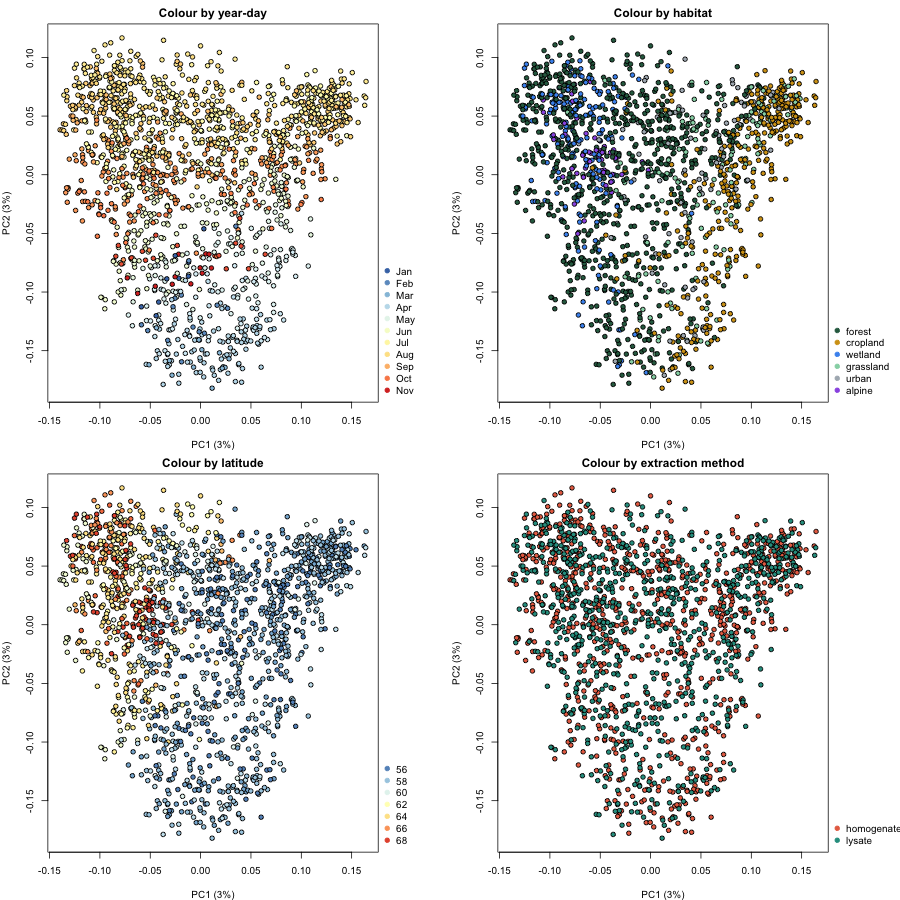
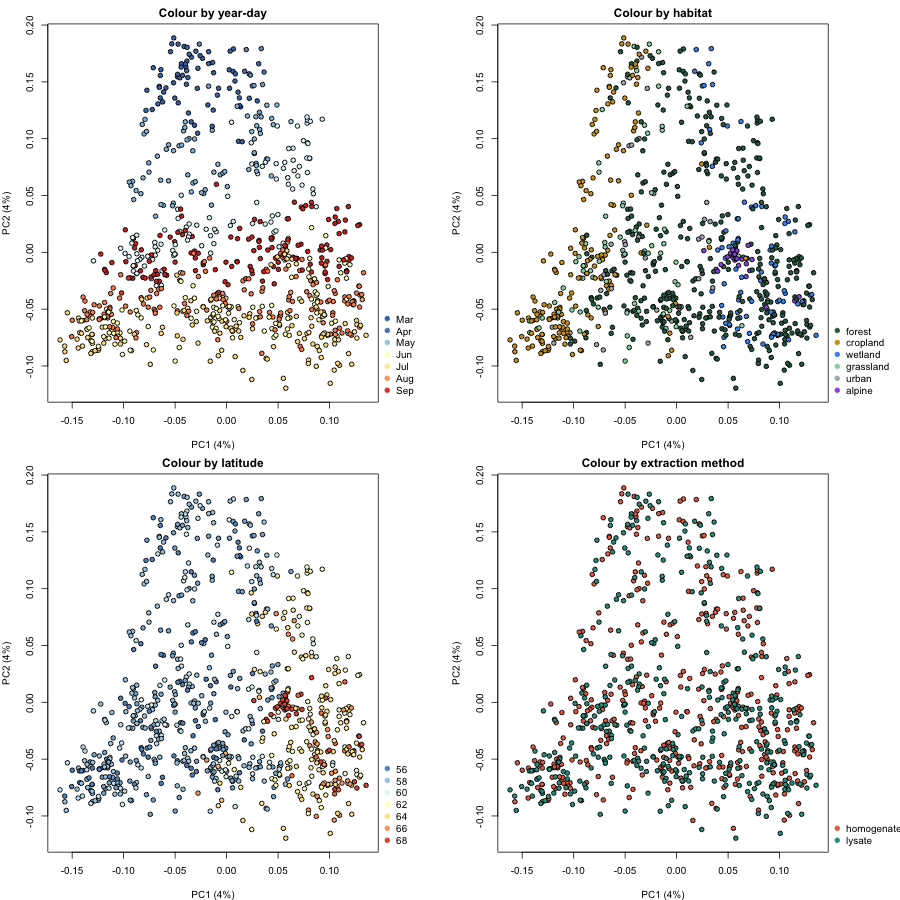
Render site to docs/

diff --git a/docs/tutorial-03-map.html b/docs/tutorial-03-map.html
@@ -174,92 +174,108 @@ pre > code.sourceCode > span > a:first-child::before { text-decoration: underlin
 <h3 class="anchored" data-anchor-id="inspect-contextual-data">Inspect contextual data</h3>
 <p>Core sample-level metadata is available in <code>merged_df$events</code>:</p>
 <div class="code-copy-outer-scaffold"><div class="sourceCode" id="cb1"><pre class="sourceCode r code-with-copy"><code class="sourceCode r"><span id="cb1-1"><a href="#cb1-1" aria-hidden="true" tabindex="-1"></a><span class="fu">colnames</span>(merged_df<span class="sc">$</span>events)</span></code></pre></div><button title="Copy to Clipboard" class="code-copy-button"><i class="bi"></i></button></div>
-<p>Samples are ordered consistently across tables — <code>rownames(merged_df$events)</code>, <code>rownames(merged_df$emof)</code> and <code>colnames(merged$counts)</code> all refer to the same samples.</p>
+<p>Samples are ordered consistently across tables — <code>rownames(merged_df$events)</code>, <code>rownames(merged_df$emof)</code> and <code>colnames(merged$counts)</code> all refer to the same samples:</p>
+<div class="code-copy-outer-scaffold"><div class="sourceCode" id="cb2"><pre class="sourceCode r code-with-copy"><code class="sourceCode r"><span id="cb2-1"><a href="#cb2-1" aria-hidden="true" tabindex="-1"></a><span class="fu">identical</span>(<span class="fu">rownames</span>(merged_df<span class="sc">$</span>events), <span class="fu">rownames</span>(merged_df<span class="sc">$</span>emof))</span></code></pre></div><button title="Copy to Clipboard" class="code-copy-button"><i class="bi"></i></button></div>
 <hr>
 </section>
 <section id="extract-spatial-and-temporal-variables" class="level3">
 <h3 class="anchored" data-anchor-id="extract-spatial-and-temporal-variables">Extract spatial and temporal variables</h3>
 <p>Latitude and longitude can be used directly, whereas <code>eventDate</code> requires some preparation because dates in these two datasets are stored as <code>start/end</code> intervals. We therefore first extract the start of each interval before calculating month and day of year.</p>
 <p>A few records only contain a year and no exact date. These cannot be assigned a month or day of year, so they are left as <code>NA</code>. We will exclude these records later when filtering the samples used in the analyses.</p>
-<div class="code-copy-outer-scaffold"><div class="sourceCode" id="cb2"><pre class="sourceCode r code-with-copy"><code class="sourceCode r"><span id="cb2-1"><a href="#cb2-1" aria-hidden="true" tabindex="-1"></a>lat   <span class="ot">&lt;-</span> <span class="fu">as.numeric</span>(merged_df<span class="sc">$</span>events<span class="sc">$</span>decimalLatitude)</span>
-<span id="cb2-2"><a href="#cb2-2" aria-hidden="true" tabindex="-1"></a>lon   <span class="ot">&lt;-</span> <span class="fu">as.numeric</span>(merged_df<span class="sc">$</span>events<span class="sc">$</span>decimalLongitude)</span>
-<span id="cb2-3"><a href="#cb2-3" aria-hidden="true" tabindex="-1"></a></span>
-<span id="cb2-4"><a href="#cb2-4" aria-hidden="true" tabindex="-1"></a>event_start <span class="ot">&lt;-</span> lubridate<span class="sc">::</span><span class="fu">parse_date_time</span>(</span>
-<span id="cb2-5"><a href="#cb2-5" aria-hidden="true" tabindex="-1"></a>  <span class="fu">sub</span>(<span class="st">"/.*"</span>, <span class="st">""</span>, merged_df<span class="sc">$</span>events<span class="sc">$</span>eventDate),</span>
-<span id="cb2-6"><a href="#cb2-6" aria-hidden="true" tabindex="-1"></a>  <span class="at">orders =</span> <span class="fu">c</span>(<span class="st">"ymd_HMSz"</span>, <span class="st">"ymd_HMS"</span>, <span class="st">"ymd"</span>)</span>
-<span id="cb2-7"><a href="#cb2-7" aria-hidden="true" tabindex="-1"></a>)</span>
-<span id="cb2-8"><a href="#cb2-8" aria-hidden="true" tabindex="-1"></a>month <span class="ot">&lt;-</span> lubridate<span class="sc">::</span><span class="fu">month</span>(event_start)</span>
-<span id="cb2-9"><a href="#cb2-9" aria-hidden="true" tabindex="-1"></a>yday  <span class="ot">&lt;-</span> lubridate<span class="sc">::</span><span class="fu">yday</span>(event_start)</span></code></pre></div><button title="Copy to Clipboard" class="code-copy-button"><i class="bi"></i></button></div>
+<div class="code-copy-outer-scaffold"><div class="sourceCode" id="cb3"><pre class="sourceCode r code-with-copy"><code class="sourceCode r"><span id="cb3-1"><a href="#cb3-1" aria-hidden="true" tabindex="-1"></a>lat   <span class="ot">&lt;-</span> <span class="fu">as.numeric</span>(merged_df<span class="sc">$</span>events<span class="sc">$</span>decimalLatitude)</span>
+<span id="cb3-2"><a href="#cb3-2" aria-hidden="true" tabindex="-1"></a>lon   <span class="ot">&lt;-</span> <span class="fu">as.numeric</span>(merged_df<span class="sc">$</span>events<span class="sc">$</span>decimalLongitude)</span>
+<span id="cb3-3"><a href="#cb3-3" aria-hidden="true" tabindex="-1"></a></span>
+<span id="cb3-4"><a href="#cb3-4" aria-hidden="true" tabindex="-1"></a>event_start <span class="ot">&lt;-</span> lubridate<span class="sc">::</span><span class="fu">parse_date_time</span>(</span>
+<span id="cb3-5"><a href="#cb3-5" aria-hidden="true" tabindex="-1"></a>  <span class="fu">sub</span>(<span class="st">"/.*"</span>, <span class="st">""</span>, merged_df<span class="sc">$</span>events<span class="sc">$</span>eventDate),</span>
+<span id="cb3-6"><a href="#cb3-6" aria-hidden="true" tabindex="-1"></a>  <span class="at">orders =</span> <span class="fu">c</span>(<span class="st">"ymd_HMSz"</span>, <span class="st">"ymd_HMS"</span>, <span class="st">"ymd"</span>)</span>
+<span id="cb3-7"><a href="#cb3-7" aria-hidden="true" tabindex="-1"></a>)</span>
+<span id="cb3-8"><a href="#cb3-8" aria-hidden="true" tabindex="-1"></a>month <span class="ot">&lt;-</span> lubridate<span class="sc">::</span><span class="fu">month</span>(event_start)</span>
+<span id="cb3-9"><a href="#cb3-9" aria-hidden="true" tabindex="-1"></a>yday  <span class="ot">&lt;-</span> lubridate<span class="sc">::</span><span class="fu">yday</span>(event_start)</span></code></pre></div><button title="Copy to Clipboard" class="code-copy-button"><i class="bi"></i></button></div>
 <hr>
 </section>
 <section id="extract-habitat-type" class="level3">
 <h3 class="anchored" data-anchor-id="extract-habitat-type">Extract habitat type</h3>
 <p>The <code>env_local_scale</code> column contains habitat type classifications based on the <a href="https://sites.google.com/site/environmentontology/" target="_blank">Environment Ontology</a> (ENVO). We first inspect the unique values:</p>
-<div class="code-copy-outer-scaffold"><div class="sourceCode" id="cb3"><pre class="sourceCode r code-with-copy"><code class="sourceCode r"><span id="cb3-1"><a href="#cb3-1" aria-hidden="true" tabindex="-1"></a><span class="fu">unique</span>(merged_df<span class="sc">$</span>events<span class="sc">$</span>env_local_scale)</span></code></pre></div><button title="Copy to Clipboard" class="code-copy-button"><i class="bi"></i></button></div>
+<div class="code-copy-outer-scaffold"><div class="sourceCode" id="cb4"><pre class="sourceCode r code-with-copy"><code class="sourceCode r"><span id="cb4-1"><a href="#cb4-1" aria-hidden="true" tabindex="-1"></a><span class="fu">unique</span>(merged_df<span class="sc">$</span>events<span class="sc">$</span>env_local_scale)</span></code></pre></div><button title="Copy to Clipboard" class="code-copy-button"><i class="bi"></i></button></div>
 <p>For plotting, we create short labels and assign a colour to each habitat:</p>
-<div class="code-copy-outer-scaffold"><div class="sourceCode" id="cb4"><pre class="sourceCode r code-with-copy"><code class="sourceCode r"><span id="cb4-1"><a href="#cb4-1" aria-hidden="true" tabindex="-1"></a>habitat_map <span class="ot">&lt;-</span> <span class="fu">c</span>(</span>
-<span id="cb4-2"><a href="#cb4-2" aria-hidden="true" tabindex="-1"></a>  <span class="st">"forested area [ENVO:00000111]"</span>    <span class="ot">=</span> <span class="st">"forest"</span>,</span>
-<span id="cb4-3"><a href="#cb4-3" aria-hidden="true" tabindex="-1"></a>  <span class="st">"area of cropland [ENVO:01000892]"</span> <span class="ot">=</span> <span class="st">"cropland"</span>,</span>
-<span id="cb4-4"><a href="#cb4-4" aria-hidden="true" tabindex="-1"></a>  <span class="st">"wetland area [ENVO:00000043]"</span>     <span class="ot">=</span> <span class="st">"wetland"</span>,</span>
-<span id="cb4-5"><a href="#cb4-5" aria-hidden="true" tabindex="-1"></a>  <span class="st">"grassland area [ENVO]"</span>            <span class="ot">=</span> <span class="st">"grassland"</span>,</span>
-<span id="cb4-6"><a href="#cb4-6" aria-hidden="true" tabindex="-1"></a>  <span class="st">"urban biome [ENVO:01000249]"</span>      <span class="ot">=</span> <span class="st">"urban"</span>,</span>
-<span id="cb4-7"><a href="#cb4-7" aria-hidden="true" tabindex="-1"></a>  <span class="st">"alpine biome [ENVO:01001835]"</span>     <span class="ot">=</span> <span class="st">"alpine"</span></span>
-<span id="cb4-8"><a href="#cb4-8" aria-hidden="true" tabindex="-1"></a>)</span>
-<span id="cb4-9"><a href="#cb4-9" aria-hidden="true" tabindex="-1"></a>habitat <span class="ot">&lt;-</span> habitat_map[merged_df<span class="sc">$</span>events<span class="sc">$</span>env_local_scale]</span>
-<span id="cb4-10"><a href="#cb4-10" aria-hidden="true" tabindex="-1"></a></span>
-<span id="cb4-11"><a href="#cb4-11" aria-hidden="true" tabindex="-1"></a>habitat_cols <span class="ot">&lt;-</span> <span class="fu">c</span>(</span>
-<span id="cb4-12"><a href="#cb4-12" aria-hidden="true" tabindex="-1"></a>  <span class="st">"forest"</span>    <span class="ot">=</span> <span class="st">"#2d6a4f"</span>,</span>
-<span id="cb4-13"><a href="#cb4-13" aria-hidden="true" tabindex="-1"></a>  <span class="st">"cropland"</span>  <span class="ot">=</span> <span class="st">"#d4a017"</span>,</span>
-<span id="cb4-14"><a href="#cb4-14" aria-hidden="true" tabindex="-1"></a>  <span class="st">"wetland"</span>   <span class="ot">=</span> <span class="st">"#4895ef"</span>,</span>
-<span id="cb4-15"><a href="#cb4-15" aria-hidden="true" tabindex="-1"></a>  <span class="st">"grassland"</span> <span class="ot">=</span> <span class="st">"#95d5b2"</span>,</span>
-<span id="cb4-16"><a href="#cb4-16" aria-hidden="true" tabindex="-1"></a>  <span class="st">"urban"</span>     <span class="ot">=</span> <span class="st">"#adb5bd"</span>,</span>
-<span id="cb4-17"><a href="#cb4-17" aria-hidden="true" tabindex="-1"></a>  <span class="st">"alpine"</span>    <span class="ot">=</span> <span class="st">"#9b5de5"</span></span>
-<span id="cb4-18"><a href="#cb4-18" aria-hidden="true" tabindex="-1"></a>)</span>
-<span id="cb4-19"><a href="#cb4-19" aria-hidden="true" tabindex="-1"></a>color_habitat <span class="ot">&lt;-</span> habitat_cols[habitat]</span></code></pre></div><button title="Copy to Clipboard" class="code-copy-button"><i class="bi"></i></button></div>
+<div class="code-copy-outer-scaffold"><div class="sourceCode" id="cb5"><pre class="sourceCode r code-with-copy"><code class="sourceCode r"><span id="cb5-1"><a href="#cb5-1" aria-hidden="true" tabindex="-1"></a>habitat_map <span class="ot">&lt;-</span> <span class="fu">c</span>(</span>
+<span id="cb5-2"><a href="#cb5-2" aria-hidden="true" tabindex="-1"></a>  <span class="st">"forested area [ENVO:00000111]"</span>    <span class="ot">=</span> <span class="st">"forest"</span>,</span>
+<span id="cb5-3"><a href="#cb5-3" aria-hidden="true" tabindex="-1"></a>  <span class="st">"area of cropland [ENVO:01000892]"</span> <span class="ot">=</span> <span class="st">"cropland"</span>,</span>
+<span id="cb5-4"><a href="#cb5-4" aria-hidden="true" tabindex="-1"></a>  <span class="st">"wetland area [ENVO:00000043]"</span>     <span class="ot">=</span> <span class="st">"wetland"</span>,</span>
+<span id="cb5-5"><a href="#cb5-5" aria-hidden="true" tabindex="-1"></a>  <span class="st">"grassland area [ENVO]"</span>            <span class="ot">=</span> <span class="st">"grassland"</span>,</span>
+<span id="cb5-6"><a href="#cb5-6" aria-hidden="true" tabindex="-1"></a>  <span class="st">"urban biome [ENVO:01000249]"</span>      <span class="ot">=</span> <span class="st">"urban"</span>,</span>
+<span id="cb5-7"><a href="#cb5-7" aria-hidden="true" tabindex="-1"></a>  <span class="st">"alpine biome [ENVO:01001835]"</span>     <span class="ot">=</span> <span class="st">"alpine"</span></span>
+<span id="cb5-8"><a href="#cb5-8" aria-hidden="true" tabindex="-1"></a>)</span>
+<span id="cb5-9"><a href="#cb5-9" aria-hidden="true" tabindex="-1"></a>habitat <span class="ot">&lt;-</span> habitat_map[merged_df<span class="sc">$</span>events<span class="sc">$</span>env_local_scale]</span>
+<span id="cb5-10"><a href="#cb5-10" aria-hidden="true" tabindex="-1"></a></span>
+<span id="cb5-11"><a href="#cb5-11" aria-hidden="true" tabindex="-1"></a>habitat_cols <span class="ot">&lt;-</span> <span class="fu">c</span>(</span>
+<span id="cb5-12"><a href="#cb5-12" aria-hidden="true" tabindex="-1"></a>  <span class="st">"forest"</span>    <span class="ot">=</span> <span class="st">"#2d6a4f"</span>,</span>
+<span id="cb5-13"><a href="#cb5-13" aria-hidden="true" tabindex="-1"></a>  <span class="st">"cropland"</span>  <span class="ot">=</span> <span class="st">"#d4a017"</span>,</span>
+<span id="cb5-14"><a href="#cb5-14" aria-hidden="true" tabindex="-1"></a>  <span class="st">"wetland"</span>   <span class="ot">=</span> <span class="st">"#4895ef"</span>,</span>
+<span id="cb5-15"><a href="#cb5-15" aria-hidden="true" tabindex="-1"></a>  <span class="st">"grassland"</span> <span class="ot">=</span> <span class="st">"#95d5b2"</span>,</span>
+<span id="cb5-16"><a href="#cb5-16" aria-hidden="true" tabindex="-1"></a>  <span class="st">"urban"</span>     <span class="ot">=</span> <span class="st">"#adb5bd"</span>,</span>
+<span id="cb5-17"><a href="#cb5-17" aria-hidden="true" tabindex="-1"></a>  <span class="st">"alpine"</span>    <span class="ot">=</span> <span class="st">"#9b5de5"</span></span>
+<span id="cb5-18"><a href="#cb5-18" aria-hidden="true" tabindex="-1"></a>)</span>
+<span id="cb5-19"><a href="#cb5-19" aria-hidden="true" tabindex="-1"></a>color_habitat <span class="ot">&lt;-</span> habitat_cols[habitat]</span></code></pre></div><button title="Copy to Clipboard" class="code-copy-button"><i class="bi"></i></button></div>
 <hr>
 </section>
 <section id="filter-samples-and-balance-extraction-methods" class="level3">
 <h3 class="anchored" data-anchor-id="filter-samples-and-balance-extraction-methods">Filter samples and balance extraction methods</h3>
 <p>Samples with very few total reads are excluded, as their community composition is unreliable, and so are the handful with an incomplete <code>eventDate</code> (their <code>yday</code> is <code>NA</code>, see above):</p>
-<div class="code-copy-outer-scaffold"><div class="sourceCode" id="cb5"><pre class="sourceCode r code-with-copy"><code class="sourceCode r"><span id="cb5-1"><a href="#cb5-1" aria-hidden="true" tabindex="-1"></a>sample_depth <span class="ot">&lt;-</span> Matrix<span class="sc">::</span><span class="fu">colSums</span>(merged<span class="sc">$</span>counts)</span>
-<span id="cb5-2"><a href="#cb5-2" aria-hidden="true" tabindex="-1"></a><span class="fu">summary</span>(sample_depth)  <span class="co"># inspect before picking a threshold</span></span>
-<span id="cb5-3"><a href="#cb5-3" aria-hidden="true" tabindex="-1"></a>ix <span class="ot">&lt;-</span> <span class="fu">which</span>(sample_depth <span class="sc">&gt;=</span> <span class="dv">100000</span> <span class="sc">&amp;</span> <span class="sc">!</span><span class="fu">is.na</span>(yday))</span>
-<span id="cb5-4"><a href="#cb5-4" aria-hidden="true" tabindex="-1"></a><span class="fu">length</span>(ix)</span></code></pre></div><button title="Copy to Clipboard" class="code-copy-button"><i class="bi"></i></button></div>
+<div class="code-copy-outer-scaffold"><div class="sourceCode" id="cb6"><pre class="sourceCode r code-with-copy"><code class="sourceCode r"><span id="cb6-1"><a href="#cb6-1" aria-hidden="true" tabindex="-1"></a>sample_depth <span class="ot">&lt;-</span> Matrix<span class="sc">::</span><span class="fu">colSums</span>(merged<span class="sc">$</span>counts)</span>
+<span id="cb6-2"><a href="#cb6-2" aria-hidden="true" tabindex="-1"></a><span class="fu">summary</span>(sample_depth)  <span class="co"># inspect before picking a threshold</span></span>
+<span id="cb6-3"><a href="#cb6-3" aria-hidden="true" tabindex="-1"></a>ix <span class="ot">&lt;-</span> <span class="fu">which</span>(sample_depth <span class="sc">&gt;=</span> <span class="dv">100000</span> <span class="sc">&amp;</span> <span class="sc">!</span><span class="fu">is.na</span>(yday))</span>
+<span id="cb6-4"><a href="#cb6-4" aria-hidden="true" tabindex="-1"></a><span class="fu">length</span>(ix)</span></code></pre></div><button title="Copy to Clipboard" class="code-copy-button"><i class="bi"></i></button></div>
 <p><code>100000</code> is a reasonable depth threshold here — check the <code>summary()</code> output above and adjust it if it excludes far more or fewer samples than expected for your dataset.</p>
-<p>The two datasets differ hugely in size (homogenate: ~860 samples; lysate: ~4,550) — left as-is, lysate would dominate the analysis by sample count alone, and slow down PCoA considerably. We downsample lysate to homogenate’s size instead, keeping the two balanced 50/50:</p>
-<div class="code-copy-outer-scaffold"><div class="sourceCode" id="cb6"><pre class="sourceCode r code-with-copy"><code class="sourceCode r"><span id="cb6-1"><a href="#cb6-1" aria-hidden="true" tabindex="-1"></a>dataset_id <span class="ot">&lt;-</span> <span class="fu">factor</span>(<span class="fu">sub</span>(<span class="st">":.*"</span>, <span class="st">""</span>, <span class="fu">colnames</span>(merged<span class="sc">$</span>counts)))</span>
-<span id="cb6-2"><a href="#cb6-2" aria-hidden="true" tabindex="-1"></a></span>
-<span id="cb6-3"><a href="#cb6-3" aria-hidden="true" tabindex="-1"></a><span class="fu">set.seed</span>(<span class="dv">1</span>)</span>
-<span id="cb6-4"><a href="#cb6-4" aria-hidden="true" tabindex="-1"></a>hom_ix <span class="ot">&lt;-</span> ix[dataset_id[ix] <span class="sc">==</span> <span class="st">"IBA_CO1_homogenate_2019_SE"</span>]</span>
-<span id="cb6-5"><a href="#cb6-5" aria-hidden="true" tabindex="-1"></a>lys_ix <span class="ot">&lt;-</span> ix[dataset_id[ix] <span class="sc">==</span> <span class="st">"IBA_CO1_lysate_2019_SE"</span>]</span>
-<span id="cb6-6"><a href="#cb6-6" aria-hidden="true" tabindex="-1"></a>ix     <span class="ot">&lt;-</span> <span class="fu">c</span>(hom_ix, <span class="fu">sample</span>(lys_ix, <span class="at">size =</span> <span class="fu">length</span>(hom_ix)))</span>
-<span id="cb6-7"><a href="#cb6-7" aria-hidden="true" tabindex="-1"></a><span class="fu">length</span>(ix)</span></code></pre></div><button title="Copy to Clipboard" class="code-copy-button"><i class="bi"></i></button></div>
-<p>From here on, <code>ix</code> is the fixed set of samples used throughout the rest of the tutorial — both extraction methods, pooled and balanced.</p>
+<p>The two datasets differ in size (homogenate: ~860 samples; lysate: ~4,550). We balance them by keeping only samples from site+dates present in both:</p>
+<div class="code-copy-outer-scaffold"><div class="sourceCode" id="cb7"><pre class="sourceCode r code-with-copy"><code class="sourceCode r"><span id="cb7-1"><a href="#cb7-1" aria-hidden="true" tabindex="-1"></a>dataset_id      <span class="ot">&lt;-</span> <span class="fu">factor</span>(<span class="fu">sub</span>(<span class="st">":.*"</span>, <span class="st">""</span>, <span class="fu">colnames</span>(merged<span class="sc">$</span>counts)))</span>
+<span id="cb7-2"><a href="#cb7-2" aria-hidden="true" tabindex="-1"></a>event_date_only <span class="ot">&lt;-</span> <span class="fu">as.Date</span>(event_start)</span>
+<span id="cb7-3"><a href="#cb7-3" aria-hidden="true" tabindex="-1"></a>location_id     <span class="ot">&lt;-</span> merged_df<span class="sc">$</span>events<span class="sc">$</span>locationID</span>
+<span id="cb7-4"><a href="#cb7-4" aria-hidden="true" tabindex="-1"></a></span>
+<span id="cb7-5"><a href="#cb7-5" aria-hidden="true" tabindex="-1"></a>hom_ix <span class="ot">&lt;-</span> ix[dataset_id[ix] <span class="sc">==</span> <span class="st">"IBA_CO1_homogenate_2019_SE"</span>]</span>
+<span id="cb7-6"><a href="#cb7-6" aria-hidden="true" tabindex="-1"></a>lys_ix <span class="ot">&lt;-</span> ix[dataset_id[ix] <span class="sc">==</span> <span class="st">"IBA_CO1_lysate_2019_SE"</span>]</span>
+<span id="cb7-7"><a href="#cb7-7" aria-hidden="true" tabindex="-1"></a></span>
+<span id="cb7-8"><a href="#cb7-8" aria-hidden="true" tabindex="-1"></a><span class="co"># Keep only samples from site+dates present in both datasets</span></span>
+<span id="cb7-9"><a href="#cb7-9" aria-hidden="true" tabindex="-1"></a>site_date_key <span class="ot">&lt;-</span> <span class="cf">function</span>(ix) <span class="fu">paste</span>(location_id[ix], event_date_only[ix])</span>
+<span id="cb7-10"><a href="#cb7-10" aria-hidden="true" tabindex="-1"></a>shared_keys <span class="ot">&lt;-</span> <span class="fu">intersect</span>(<span class="fu">unique</span>(<span class="fu">site_date_key</span>(hom_ix)), <span class="fu">unique</span>(<span class="fu">site_date_key</span>(lys_ix)))</span>
+<span id="cb7-11"><a href="#cb7-11" aria-hidden="true" tabindex="-1"></a></span>
+<span id="cb7-12"><a href="#cb7-12" aria-hidden="true" tabindex="-1"></a>hom_paired <span class="ot">&lt;-</span> hom_ix[<span class="fu">site_date_key</span>(hom_ix) <span class="sc">%in%</span> shared_keys]</span>
+<span id="cb7-13"><a href="#cb7-13" aria-hidden="true" tabindex="-1"></a>lys_paired <span class="ot">&lt;-</span> lys_ix[<span class="fu">site_date_key</span>(lys_ix) <span class="sc">%in%</span> shared_keys]</span>
+<span id="cb7-14"><a href="#cb7-14" aria-hidden="true" tabindex="-1"></a><span class="fu">length</span>(hom_paired) <span class="sc">+</span> <span class="fu">length</span>(lys_paired)</span></code></pre></div><button title="Copy to Clipboard" class="code-copy-button"><i class="bi"></i></button></div>
+<p>This keeps 817 of the 826 homogenate samples. That’s 1,631 samples going into the PCoA in the next step — possibly heavier than our shared workshop VM can comfortably handle at once, so we downsample each method evenly down to a lighter total:</p>
+<div class="code-copy-outer-scaffold"><div class="sourceCode" id="cb8"><pre class="sourceCode r code-with-copy"><code class="sourceCode r"><span id="cb8-1"><a href="#cb8-1" aria-hidden="true" tabindex="-1"></a>target_n <span class="ot">&lt;-</span> <span class="dv">800</span></span>
+<span id="cb8-2"><a href="#cb8-2" aria-hidden="true" tabindex="-1"></a><span class="fu">set.seed</span>(<span class="dv">1</span>)</span>
+<span id="cb8-3"><a href="#cb8-3" aria-hidden="true" tabindex="-1"></a>n_each <span class="ot">&lt;-</span> target_n <span class="sc">%/%</span> <span class="dv">2</span></span>
+<span id="cb8-4"><a href="#cb8-4" aria-hidden="true" tabindex="-1"></a>ix <span class="ot">&lt;-</span> <span class="fu">c</span>(<span class="fu">sample</span>(hom_paired, <span class="at">size =</span> <span class="fu">min</span>(n_each, <span class="fu">length</span>(hom_paired))),</span>
+<span id="cb8-5"><a href="#cb8-5" aria-hidden="true" tabindex="-1"></a>        <span class="fu">sample</span>(lys_paired, <span class="at">size =</span> <span class="fu">min</span>(n_each, <span class="fu">length</span>(lys_paired))))</span>
+<span id="cb8-6"><a href="#cb8-6" aria-hidden="true" tabindex="-1"></a><span class="fu">length</span>(ix)</span></code></pre></div><button title="Copy to Clipboard" class="code-copy-button"><i class="bi"></i></button></div>
+<p>From here on, <code>ix</code> is the fixed set of samples used throughout the rest of the tutorial — both extraction methods, pooled and paired.</p>
 <hr>
 </section>
 <section id="map-samples" class="level3">
 <h3 class="anchored" data-anchor-id="map-samples">Map samples</h3>
 <p>We define a function that plots monthly maps of the study area, showing where and when samples were collected, with point colour indicating habitat type:</p>
-<div class="code-copy-outer-scaffold"><div class="sourceCode" id="cb7"><pre class="sourceCode r code-with-copy"><code class="sourceCode r"><span id="cb7-1"><a href="#cb7-1" aria-hidden="true" tabindex="-1"></a>plot_monthly_maps <span class="ot">&lt;-</span> <span class="cf">function</span>() {</span>
-<span id="cb7-2"><a href="#cb7-2" aria-hidden="true" tabindex="-1"></a>  newmap <span class="ot">&lt;-</span> rworldmap<span class="sc">::</span><span class="fu">getMap</span>(<span class="at">resolution =</span> <span class="st">"low"</span>)</span>
-<span id="cb7-3"><a href="#cb7-3" aria-hidden="true" tabindex="-1"></a>  <span class="fu">par</span>(<span class="at">mfrow =</span> <span class="fu">c</span>(<span class="dv">4</span>, <span class="dv">4</span>), <span class="at">mar =</span> <span class="fu">c</span>(<span class="dv">2</span>, <span class="dv">2</span>, <span class="dv">3</span>, <span class="dv">1</span>), <span class="at">xpd =</span> <span class="cn">TRUE</span>)</span>
-<span id="cb7-4"><a href="#cb7-4" aria-hidden="true" tabindex="-1"></a></span>
-<span id="cb7-5"><a href="#cb7-5" aria-hidden="true" tabindex="-1"></a>  <span class="cf">for</span> (m <span class="cf">in</span> <span class="dv">1</span><span class="sc">:</span><span class="dv">12</span>) {</span>
-<span id="cb7-6"><a href="#cb7-6" aria-hidden="true" tabindex="-1"></a>    ix_m <span class="ot">&lt;-</span> ix[month[ix] <span class="sc">==</span> m]</span>
-<span id="cb7-7"><a href="#cb7-7" aria-hidden="true" tabindex="-1"></a>    <span class="fu">plot</span>(newmap, <span class="at">xlim =</span> <span class="fu">c</span>(<span class="dv">10</span>, <span class="dv">25</span>), <span class="at">ylim =</span> <span class="fu">c</span>(<span class="dv">55</span>, <span class="dv">70</span>), <span class="at">asp =</span> <span class="dv">1</span>, <span class="at">main =</span> month.abb[m])</span>
-<span id="cb7-8"><a href="#cb7-8" aria-hidden="true" tabindex="-1"></a>    <span class="cf">if</span> (<span class="fu">length</span>(ix_m) <span class="sc">&gt;</span> <span class="dv">0</span>) {</span>
-<span id="cb7-9"><a href="#cb7-9" aria-hidden="true" tabindex="-1"></a>      <span class="fu">points</span>(lon[ix_m], lat[ix_m], <span class="at">pch =</span> <span class="dv">21</span>,</span>
-<span id="cb7-10"><a href="#cb7-10" aria-hidden="true" tabindex="-1"></a>             <span class="at">col =</span> <span class="st">"black"</span>, <span class="at">bg =</span> color_habitat[ix_m], <span class="at">cex =</span> <span class="fl">1.5</span>)</span>
-<span id="cb7-11"><a href="#cb7-11" aria-hidden="true" tabindex="-1"></a>    }</span>
-<span id="cb7-12"><a href="#cb7-12" aria-hidden="true" tabindex="-1"></a>  }</span>
-<span id="cb7-13"><a href="#cb7-13" aria-hidden="true" tabindex="-1"></a></span>
-<span id="cb7-14"><a href="#cb7-14" aria-hidden="true" tabindex="-1"></a>  <span class="fu">plot.new</span>()</span>
-<span id="cb7-15"><a href="#cb7-15" aria-hidden="true" tabindex="-1"></a>  <span class="fu">legend</span>(<span class="st">"left"</span>, <span class="at">bty =</span> <span class="st">"n"</span>, <span class="at">legend =</span> <span class="fu">names</span>(habitat_cols),</span>
-<span id="cb7-16"><a href="#cb7-16" aria-hidden="true" tabindex="-1"></a>         <span class="at">pt.bg =</span> habitat_cols, <span class="at">pch =</span> <span class="dv">21</span>, <span class="at">pt.cex =</span> <span class="fl">1.6</span>, <span class="at">cex =</span> <span class="fl">1.1</span>,</span>
-<span id="cb7-17"><a href="#cb7-17" aria-hidden="true" tabindex="-1"></a>         <span class="at">title =</span> <span class="st">"Habitat"</span>)</span>
-<span id="cb7-18"><a href="#cb7-18" aria-hidden="true" tabindex="-1"></a>}</span>
-<span id="cb7-19"><a href="#cb7-19" aria-hidden="true" tabindex="-1"></a></span>
-<span id="cb7-20"><a href="#cb7-20" aria-hidden="true" tabindex="-1"></a><span class="fu">plot_monthly_maps</span>()</span></code></pre></div><button title="Copy to Clipboard" class="code-copy-button"><i class="bi"></i></button></div>
+<div class="code-copy-outer-scaffold"><div class="sourceCode" id="cb9"><pre class="sourceCode r code-with-copy"><code class="sourceCode r"><span id="cb9-1"><a href="#cb9-1" aria-hidden="true" tabindex="-1"></a>plot_monthly_maps <span class="ot">&lt;-</span> <span class="cf">function</span>() {</span>
+<span id="cb9-2"><a href="#cb9-2" aria-hidden="true" tabindex="-1"></a>  newmap <span class="ot">&lt;-</span> rworldmap<span class="sc">::</span><span class="fu">getMap</span>(<span class="at">resolution =</span> <span class="st">"low"</span>)</span>
+<span id="cb9-3"><a href="#cb9-3" aria-hidden="true" tabindex="-1"></a>  <span class="fu">par</span>(<span class="at">mfrow =</span> <span class="fu">c</span>(<span class="dv">4</span>, <span class="dv">4</span>), <span class="at">mar =</span> <span class="fu">c</span>(<span class="dv">2</span>, <span class="dv">2</span>, <span class="dv">3</span>, <span class="dv">1</span>), <span class="at">xpd =</span> <span class="cn">TRUE</span>)</span>
+<span id="cb9-4"><a href="#cb9-4" aria-hidden="true" tabindex="-1"></a></span>
+<span id="cb9-5"><a href="#cb9-5" aria-hidden="true" tabindex="-1"></a>  <span class="cf">for</span> (m <span class="cf">in</span> <span class="dv">1</span><span class="sc">:</span><span class="dv">12</span>) {</span>
+<span id="cb9-6"><a href="#cb9-6" aria-hidden="true" tabindex="-1"></a>    ix_m <span class="ot">&lt;-</span> ix[month[ix] <span class="sc">==</span> m]</span>
+<span id="cb9-7"><a href="#cb9-7" aria-hidden="true" tabindex="-1"></a>    <span class="fu">plot</span>(newmap, <span class="at">xlim =</span> <span class="fu">c</span>(<span class="dv">10</span>, <span class="dv">25</span>), <span class="at">ylim =</span> <span class="fu">c</span>(<span class="dv">55</span>, <span class="dv">70</span>), <span class="at">asp =</span> <span class="dv">1</span>, <span class="at">main =</span> month.abb[m])</span>
+<span id="cb9-8"><a href="#cb9-8" aria-hidden="true" tabindex="-1"></a>    <span class="cf">if</span> (<span class="fu">length</span>(ix_m) <span class="sc">&gt;</span> <span class="dv">0</span>) {</span>
+<span id="cb9-9"><a href="#cb9-9" aria-hidden="true" tabindex="-1"></a>      <span class="fu">points</span>(lon[ix_m], lat[ix_m], <span class="at">pch =</span> <span class="dv">21</span>,</span>
+<span id="cb9-10"><a href="#cb9-10" aria-hidden="true" tabindex="-1"></a>             <span class="at">col =</span> <span class="st">"black"</span>, <span class="at">bg =</span> color_habitat[ix_m], <span class="at">cex =</span> <span class="fl">1.5</span>)</span>
+<span id="cb9-11"><a href="#cb9-11" aria-hidden="true" tabindex="-1"></a>    }</span>
+<span id="cb9-12"><a href="#cb9-12" aria-hidden="true" tabindex="-1"></a>  }</span>
+<span id="cb9-13"><a href="#cb9-13" aria-hidden="true" tabindex="-1"></a></span>
+<span id="cb9-14"><a href="#cb9-14" aria-hidden="true" tabindex="-1"></a>  <span class="fu">plot.new</span>()</span>
+<span id="cb9-15"><a href="#cb9-15" aria-hidden="true" tabindex="-1"></a>  <span class="fu">legend</span>(<span class="st">"left"</span>, <span class="at">bty =</span> <span class="st">"n"</span>, <span class="at">legend =</span> <span class="fu">names</span>(habitat_cols),</span>
+<span id="cb9-16"><a href="#cb9-16" aria-hidden="true" tabindex="-1"></a>         <span class="at">pt.bg =</span> habitat_cols, <span class="at">pch =</span> <span class="dv">21</span>, <span class="at">pt.cex =</span> <span class="fl">1.6</span>, <span class="at">cex =</span> <span class="fl">1.1</span>,</span>
+<span id="cb9-17"><a href="#cb9-17" aria-hidden="true" tabindex="-1"></a>         <span class="at">title =</span> <span class="st">"Habitat"</span>)</span>
+<span id="cb9-18"><a href="#cb9-18" aria-hidden="true" tabindex="-1"></a>}</span>
+<span id="cb9-19"><a href="#cb9-19" aria-hidden="true" tabindex="-1"></a></span>
+<span id="cb9-20"><a href="#cb9-20" aria-hidden="true" tabindex="-1"></a><span class="fu">plot_monthly_maps</span>()</span></code></pre></div><button title="Copy to Clipboard" class="code-copy-button"><i class="bi"></i></button></div>
+<p>This figure has several panels and can look cramped on a laptop screen — click <strong>Zoom</strong> above the Plots pane for a larger view. Points also overlap since paired samples share a location, and nearby sites (~10–15 km apart) can coincide at this scale — so it looks sparser than the actual sample count.</p>
 <hr>
 <p><a href="./tutorial-02-prep.html">← Previous</a> · <a href="./tutorial.html">Overview</a> · <a href="./tutorial-04-pcoa.html">Next →</a></p>
 

diff --git a/docs/tutorial-04-pcoa.html b/docs/tutorial-04-pcoa.html
@@ -172,7 +172,7 @@ pre > code.sourceCode > span > a:first-child::before { text-decoration: underlin
 <p><em>Analyse differences in community composition between samples — beta diversity — using Spearman correlation-based dissimilarity and Principal Coordinates Analysis (PCoA).</em></p>
 <section id="aggregate-asvs-to-clusters" class="level3">
 <h3 class="anchored" data-anchor-id="aggregate-asvs-to-clusters">Aggregate ASVs to clusters</h3>
-<p>The IBA data include project-specific cluster assignments in the <code>associatedSequences</code> column, alongside more general sequence groupings such as BOLD BINs. Here, we use these assignments to aggregate the ASVs into a smaller set of clusters.</p>
+<p>In addition to ASV taxonomy and BOLD BINs, the IBA data also include project-specific cluster assignments in the <code>associatedSequences</code> column. Here, we use these assignments to aggregate the ASVs into a smaller set of clusters.</p>
 <p>The cluster assignments are read from <code>loaded</code>, because <code>merge_data()</code> drops the <code>associatedSequences</code> column when combining datasets.</p>
 <div class="code-copy-outer-scaffold"><div class="sourceCode" id="cb1"><pre class="sourceCode r code-with-copy"><code class="sourceCode r"><span id="cb1-1"><a href="#cb1-1" aria-hidden="true" tabindex="-1"></a>cluster_lookup <span class="ot">&lt;-</span> <span class="fu">unique</span>(data.table<span class="sc">::</span><span class="fu">rbindlist</span>(<span class="fu">lapply</span>(loaded<span class="sc">$</span>asvs, <span class="cf">function</span>(x)</span>
 <span id="cb1-2"><a href="#cb1-2" aria-hidden="true" tabindex="-1"></a>  x[, .(taxonID, associatedSequences)])))</span>
@@ -284,8 +284,7 @@ pre > code.sourceCode > span > a:first-child::before { text-decoration: underlin
 <span id="cb7-32"><a href="#cb7-32" aria-hidden="true" tabindex="-1"></a>     <span class="at">xlab =</span> xlab, <span class="at">ylab =</span> ylab, <span class="at">main =</span> <span class="st">"Colour by extraction method"</span>)</span>
 <span id="cb7-33"><a href="#cb7-33" aria-hidden="true" tabindex="-1"></a><span class="fu">legend</span>(<span class="st">"bottomleft"</span>, <span class="at">bty =</span> <span class="st">"n"</span>, <span class="at">pch =</span> <span class="dv">19</span>, <span class="at">cex =</span> <span class="dv">1</span>, <span class="at">inset =</span> <span class="fu">c</span>(<span class="dv">1</span>, <span class="dv">0</span>),</span>
 <span id="cb7-34"><a href="#cb7-34" aria-hidden="true" tabindex="-1"></a>       <span class="at">col =</span> method_cols, <span class="at">legend =</span> method_labs)</span></code></pre></div><button title="Copy to Clipboard" class="code-copy-button"><i class="bi"></i></button></div>
-<p>The first two PCoA axes each explain only about 3% of the variation, so the plots capture only part of the community differences. They suggest effects of habitat, sampling date and latitude, while homogenate and lysate samples are largely mixed. Pooling therefore seems reasonable, although effects along other axes cannot be ruled out.</p>
-<p>Many sampling sites are also close together (~10–15 km apart); this spatial autocorrelation means nearby samples may be similar regardless of habitat — worth keeping in mind when interpreting the habitat patterns above.</p>
+<p>The first two PCoA axes each explain only about 4% of the variation, so the plots capture only part of the community differences. They suggest effects of habitat, sampling date and latitude, while homogenate and lysate samples are largely mixed.</p>
 <hr>
 <p><a href="./tutorial-03-map.html">← Previous</a> · <a href="./tutorial.html">Overview</a> · <a href="./tutorial-05-shannon.html">Next →</a></p>
 

diff --git a/docs/tutorial-06-barplots.html b/docs/tutorial-06-barplots.html
@@ -237,7 +237,7 @@ pre > code.sourceCode > span > a:first-child::before { text-decoration: underlin
 <span id="cb1-62"><a href="#cb1-62" aria-hidden="true" tabindex="-1"></a>    )</span>
 <span id="cb1-63"><a href="#cb1-63" aria-hidden="true" tabindex="-1"></a>  }</span>
 <span id="cb1-64"><a href="#cb1-64" aria-hidden="true" tabindex="-1"></a>}</span></code></pre></div><button title="Copy to Clipboard" class="code-copy-button"><i class="bi"></i></button></div>
-<p>The same balanced sample set selected in <a href="./tutorial-03-map.html">step 3</a>, stored in <code>ix</code>, is used both to select the most abundant taxa and to calculate the habitat-by-month averages.</p>
+<p>The same paired sample set selected in <a href="./tutorial-03-map.html">step 3</a>, stored in <code>ix</code>, is used both to select the most abundant taxa and to calculate the habitat-by-month averages.</p>
 </section>
 <section id="choose-a-taxonomic-rank" class="level3">
 <h3 class="anchored" data-anchor-id="choose-a-taxonomic-rank">Choose a taxonomic rank</h3>
@@ -256,7 +256,6 @@ pre > code.sourceCode > span > a:first-child::before { text-decoration: underlin
 <h3 class="anchored" data-anchor-id="example-plot-top-orders">Example: plot top orders</h3>
 <p>Plot the eight most abundant orders across habitats and months:</p>
 <div class="code-copy-outer-scaffold"><div class="sourceCode" id="cb2"><pre class="sourceCode r code-with-copy"><code class="sourceCode r"><span id="cb2-1"><a href="#cb2-1" aria-hidden="true" tabindex="-1"></a><span class="fu">plot_barplots</span>(<span class="at">rank =</span> <span class="dv">4</span>, <span class="at">top_x =</span> <span class="dv">8</span>)</span></code></pre></div><button title="Copy to Clipboard" class="code-copy-button"><i class="bi"></i></button></div>
-<p>Each panel represents a habitat and each bar a month, with coloured segments showing the mean relative abundance of the selected orders. Diptera dominate many habitat–month combinations, while the contribution of other orders varies across habitats and months. Some habitat–month combinations have no samples, so these patterns should be interpreted alongside the sampling coverage in step 3.</p>
 <hr>
 <p><a href="./tutorial-05-shannon.html">← Previous</a> · <a href="./tutorial.html">Overview</a></p>
 

diff --git a/docs/results.html b/docs/results.html
@@ -145,17 +145,17 @@ ul.task-list li input[type="checkbox"] {
 </header>
 
 
-<p><em>Example results from running the tutorial on two combined IBA COI datasets, <code>IBA_CO1_homogenate_2019_SE</code> and <code>IBA_CO1_lysate_2019_SE</code> (downsampled and pooled), merged with <code>merge_data()</code>.</em></p>
+<p><em>Example results from running the tutorial on two combined IBA COI datasets, <code>IBA_CO1_homogenate_2019_SE</code> and <code>IBA_CO1_lysate_2019_SE</code> (paired by site and date, then downsampled and pooled), merged with <code>merge_data()</code>.</em></p>
 <hr>
 <section id="sampling-sites-across-sweden" class="level3">
 <h3 class="anchored" data-anchor-id="sampling-sites-across-sweden">Sampling sites across Sweden</h3>
-<p><em>One map per month of the balanced, pooled IBA sampling sites, coloured by habitat type.</em></p>
+<p><em>One map per month of the paired, pooled IBA sampling sites, coloured by habitat type.</em></p>
 <p><img src="figures/3_map.png" class="img-fluid"></p>
 <hr>
 </section>
 <section id="community-differences-beta-diversity-pcoa" class="level3">
 <h3 class="anchored" data-anchor-id="community-differences-beta-diversity-pcoa">Community differences — beta diversity (PCoA)</h3>
-<p><em>Principal Coordinates Analysis (Spearman-based dissimilarity) of cluster-level community composition, coloured by year-day, habitat, latitude and extraction method. Homogenate and lysate samples are thoroughly mixed in the last panel — extraction method explains only ~0.3% of the variance in community composition (PERMANOVA), compared to ~4% for habitat — supporting pooling both for the rest of the analysis.</em></p>
+<p><em>Principal Coordinates Analysis (Spearman-based dissimilarity) of cluster-level community composition, coloured by year-day, habitat, latitude and extraction method. Homogenate and lysate samples are thoroughly mixed in the last panel — extraction method explains only ~0.2% of the variance in community composition (PERMANOVA), compared to ~7% for habitat — supporting pooling both for the rest of the analysis.</em></p>
 <p><img src="figures/4_pcoa.png" class="img-fluid"></p>
 <hr>
 </section>

diff --git a/docs/tutorial-02-prep.html b/docs/tutorial-02-prep.html
@@ -220,7 +220,7 @@ pre > code.sourceCode > span > a:first-child::before { text-decoration: underlin
 </ul>
 <p>Both raw counts and normalised counts (relative abundances per sample) are available as sparse matrices. Dots represent zeros:</p>
 <div class="code-copy-outer-scaffold"><div class="sourceCode" id="cb7"><pre class="sourceCode r code-with-copy"><code class="sourceCode r"><span id="cb7-1"><a href="#cb7-1" aria-hidden="true" tabindex="-1"></a>cladecounts<span class="sc">$</span>raw<span class="sc">$</span>phylum[<span class="dv">1</span><span class="sc">:</span><span class="dv">3</span>, <span class="dv">1</span><span class="sc">:</span><span class="dv">3</span>]  <span class="co"># raw counts at phylum level</span></span>
-<span id="cb7-2"><a href="#cb7-2" aria-hidden="true" tabindex="-1"></a>cladecounts<span class="sc">$</span>norm<span class="sc">$</span>order[<span class="dv">1</span><span class="sc">:</span><span class="dv">3</span>, <span class="dv">1</span><span class="sc">:</span><span class="dv">3</span>]  <span class="co"># relative abundances at order level</span></span></code></pre></div><button title="Copy to Clipboard" class="code-copy-button"><i class="bi"></i></button></div>
+<span id="cb7-2"><a href="#cb7-2" aria-hidden="true" tabindex="-1"></a>cladecounts<span class="sc">$</span>norm<span class="sc">$</span>order[<span class="dv">8</span><span class="sc">:</span><span class="dv">10</span>, <span class="dv">1</span><span class="sc">:</span><span class="dv">2</span>]  <span class="co"># relative abundances at order level</span></span></code></pre></div><button title="Copy to Clipboard" class="code-copy-button"><i class="bi"></i></button></div>
 <hr>
 <p><a href="./tutorial-01-setup.html">← Previous</a> · <a href="./tutorial.html">Overview</a> · <a href="./tutorial-03-map.html">Next →</a></p>
 

diff --git a/docs/tutorial-05-shannon.html b/docs/tutorial-05-shannon.html
@@ -182,7 +182,7 @@ pre > code.sourceCode > span > a:first-child::before { text-decoration: underlin
 <span id="cb2-2"><a href="#cb2-2" aria-hidden="true" tabindex="-1"></a><span class="fu">boxplot</span>(shannon <span class="sc">~</span> habitat[ix], <span class="at">las =</span> <span class="dv">2</span>, <span class="at">xlab =</span> <span class="st">""</span>,</span>
 <span id="cb2-3"><a href="#cb2-3" aria-hidden="true" tabindex="-1"></a>        <span class="at">ylab =</span> <span class="st">"Shannon diversity"</span>,</span>
 <span id="cb2-4"><a href="#cb2-4" aria-hidden="true" tabindex="-1"></a>        <span class="at">col =</span> habitat_cols[<span class="fu">levels</span>(<span class="fu">factor</span>(habitat[ix]))])</span></code></pre></div><button title="Copy to Clipboard" class="code-copy-button"><i class="bi"></i></button></div>
-<p>Shannon diversity is broadly similar across habitats, with substantial overlap in their distributions. This contrasts with the PCoA in step 4: habitats can differ in community composition without showing equally strong differences in within-sample diversity.</p>
+<p>Shannon diversity is broadly similar across habitats, with overlapping distributions. This doesn’t contradict the PCoA in step 4: PCoA reflects <em>which</em> species are present, while Shannon reflects <em>how many</em> and how evenly distributed — habitats can differ in composition but have similar diversity levels.</p>
 <hr>
 <p><a href="./tutorial-04-pcoa.html">← Previous</a> · <a href="./tutorial.html">Overview</a> · <a href="./tutorial-06-barplots.html">Next →</a></p>
 

diff --git a/docs/tutorial-01-setup.html b/docs/tutorial-01-setup.html
@@ -175,7 +175,6 @@ pre > code.sourceCode > span > a:first-child::before { text-decoration: underlin
 <p>A virtual machine running RStudio Server is available in PDC Cloud. Log in using the credentials provided during the workshop:</p>
 <p><a href="http://193.10.159.192:8787" target="_blank">RStudio Server</a></p>
 <p>Resources are shared, so <strong>avoid creating additional large objects</strong>. The VM shuts down after the workshop — save your work as an R script and download it via the Files pane (More → Export) before you leave.</p>
-<p>Some figures later in the tutorial have several panels and can look cramped in the small Plots pane on a laptop screen — click <strong>Zoom</strong> above the pane to open the figure in a larger, resizable window.</p>
 <section id="check-required-packages" class="level3">
 <h3 class="anchored" data-anchor-id="check-required-packages">Check required packages</h3>
 <p>All required packages are pre-installed in the workshop environment. Load them and confirm that they are available:</p>

diff --git a/docs/tutorial.html b/docs/tutorial.html
@@ -138,7 +138,7 @@ ul.task-list li input[type="checkbox"] {
 <ol type="1">
 <li><a href="./tutorial-01-setup.html">Environment setup</a> — Access the workshop RStudio environment (or run locally)</li>
 <li><a href="./tutorial-02-prep.html">Data preparation</a> — Load, merge and aggregate data sourced from the ASV portal</li>
-<li><a href="./tutorial-03-map.html">Sample mapping</a> — Filter, balance and map sampling coverage across Sweden and habitat types</li>
+<li><a href="./tutorial-03-map.html">Sample mapping</a> — Filter, pair and map sampling coverage across Sweden and habitat types</li>
 <li><a href="./tutorial-04-pcoa.html">Community differences (beta diversity)</a> — Explore differences among samples using Spearman dissimilarity and PCoA</li>
 <li><a href="./tutorial-05-shannon.html">Within-sample diversity (alpha diversity)</a> — Examine Shannon diversity across habitat types</li>
 <li><a href="./tutorial-06-barplots.html">Taxonomic composition</a> — Barplots across habitats and months</li>
